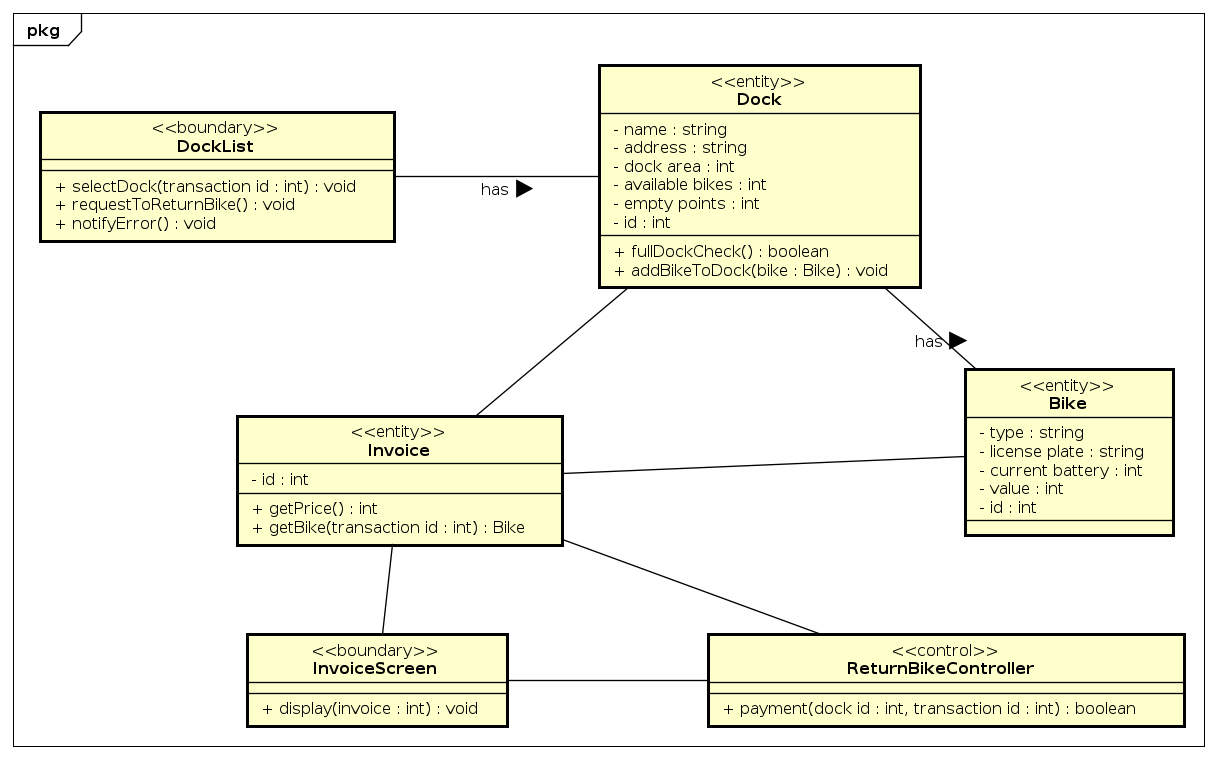
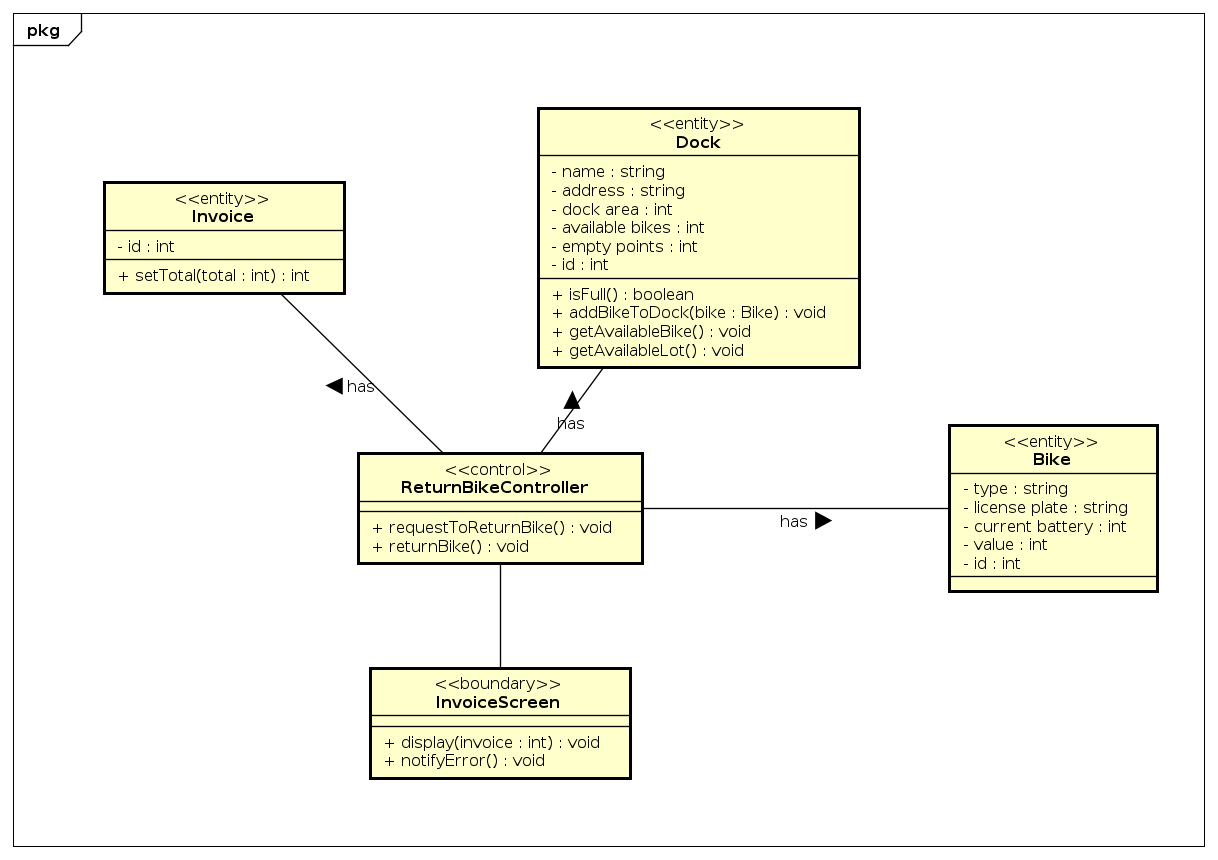
DI pattern, update DetailDesign

diff --git a/EcoBikeRental/src/main/java/edu/hust/vn/controller/ReturnController.java b/EcoBikeRental/src/main/java/edu/hust/vn/controller/ReturnController.java
@@ -1,6 +1,7 @@
 package edu.hust.vn.controller;
 
 
+import edu.hust.vn.contract.IPricing;
 import javafx.animation.KeyFrame;
 import javafx.animation.Timeline;
 import javafx.collections.FXCollections;
@@ -19,6 +20,7 @@ import edu.hust.vn.entity.Rental;
 
 import java.io.IOException;
 import java.net.URL;
+import java.sql.Timestamp;
 import java.util.ResourceBundle;
 
 public class ReturnController extends BaseController implements Initializable {
@@ -50,12 +52,6 @@ public class ReturnController extends BaseController implements Initializable {
 
     @FXML
     private Label typeLb;
-    Timeline timeLine;
-    private int timeCounter = 0;
-    private Bike bike;
-    private Rental rental;
-    private Invoice invoice;
-    private ObservableList<Dock> dockList;
 
     @FXML
     void returnBike(ActionEvent event) throws IOException {
@@ -68,9 +64,11 @@ public class ReturnController extends BaseController implements Initializable {
                 alert.show();
             }else {
                 timeLine.stop();
-                System.out.println(dock.getName());
                 dock.addBikeToDock(this.bike);
-                // payment method
+                rental.setReturnTime(new Timestamp(System.currentTimeMillis()));
+                int time = (int) (rental.getReturnTime().getTime() - rental.getStartTime().getTime()) / 1000;
+                invoice.setTotal( pricing.getPricing(time) );
+                // payment(Invoice invoice)
                 // chuyen man hinh sang thanh toan hoa don kem du lieu bike
             }
         }else{
@@ -79,6 +77,42 @@ public class ReturnController extends BaseController implements Initializable {
         }
     }
 
+    private Timeline timeLine;
+    private Bike bike;
+    private Rental rental;
+    private Invoice invoice;
+    private ObservableList<Dock> dockList;
+    private IPricing pricing;
+    public ReturnController(Bike bike, Rental rental, Invoice invoice, IPricing pricing) {
+        this.bike = bike;
+        this.rental = rental;
+        this.invoice = invoice;
+        this.pricing = pricing;
+        this.timeLine = new Timeline();
+    }
+    @Override
+    public void initialize(URL url, ResourceBundle resourceBundle) {
+        typeLb.setText("Single");
+        licenseStateLb.setText(bike.getLicensePlate());
+        timeLb.setText(String.valueOf(0) + "d:" + String.valueOf((0)) + "h:" + String.valueOf((0)) + "m");
+        totalLb.setText(String.valueOf(invoice.getTotal()));
+        batteryLb.setText(String.valueOf(bike.getBattery()));
+
+        dockList = FXCollections.observableArrayList(
+                new Dock(1, "1 hoang mai ha noi", "So 1", 50),
+                new Dock(2, "2 hoang mai ha noi", "So 2", 50),
+                new Dock(3, "3 hoang mai ha noi", "S0 3", 50)
+        );
+
+        nameCol.setCellValueFactory(new PropertyValueFactory< Dock, String >("name"));
+        availableBikeCol.setCellValueFactory( cellDataFeatures ->  cellDataFeatures.getValue().getAvailableBikeProperty());
+        availableLotsCol.setCellValueFactory(cellDataFeatures ->  cellDataFeatures.getValue().getAvailableLotProperty());
+        totalLotsCol.setCellValueFactory(new PropertyValueFactory< Dock, Number>( "capacity"));
+        addressCol.setCellValueFactory(new PropertyValueFactory< Dock, String >("address"));
+        table.setItems(dockList);
+
+        doTime();
+    }
     public Bike getBike() {
         return bike;
     }
@@ -96,55 +130,16 @@ public class ReturnController extends BaseController implements Initializable {
         KeyFrame frame = new KeyFrame(Duration.seconds(1), new EventHandler<ActionEvent>() {
             @Override
             public void handle(ActionEvent actionEvent) {
-                timeCounter++;
-                int days = timeCounter / 86400;
-                int hours = (timeCounter - days * 86400) / 3600;
-                int minutes = (timeCounter - hours * 3600) % 60;
-                timeLb.setText(String.valueOf(days) + "d:" + String.valueOf((hours)) + "h:" + String.valueOf((minutes)) + "m");
-
-                minutes = timeCounter;
-                if (minutes <= 10){
-                    invoice.setTotal(0);
-                } else if (minutes > 10 && minutes < 40 ) {
-                    invoice.setTotal(10000);
-                }else {
-                    invoice.setTotal(10000 + (minutes - 40) / 15 * 3000 + 3000);
-                }
-                totalLb.setText(String.valueOf(invoice.getTotal()));
+                int time = (int) (System.currentTimeMillis() - rental.getStartTime().getTime()) / 1000;
+                int days = time / 86400;
+                int hours = time % 86400 / 3600;
+                int minutes = time % 86400 % 3600 / 60;
+                int second = time % 86400 % 3600 % 60;
+                timeLb.setText( days + "d:" + hours + "h:" + minutes + "m:" + second + "s");
+                totalLb.setText(String.valueOf( pricing.getPricing( time ) ) );
             }
         });
         timeLine.getKeyFrames().add(frame);
         timeLine.playFromStart();
-    }
-
-    @Override
-    public void initialize(URL url, ResourceBundle resourceBundle) {
-        typeLb.setText("Single");
-        licenseStateLb.setText(bike.getLicensePlate());
-        timeLb.setText(String.valueOf(0) + "d:" + String.valueOf((0)) + "h:" + String.valueOf((0)) + "m");
-        totalLb.setText(String.valueOf(invoice.getTotal()));
-        batteryLb.setText(String.valueOf(bike.getBattery()));
-
-        dockList = FXCollections.observableArrayList(
-            new Dock(1, "1 hoang mai ha noi", "So 1", 50),
-            new Dock(2, "2 hoang mai ha noi", "So 2", 50),
-            new Dock(3, "3 hoang mai ha noi", "S0 3", 50)
-        );
-
-        nameCol.setCellValueFactory(new PropertyValueFactory< Dock, String >("name"));
-        availableBikeCol.setCellValueFactory( cellDataFeatures ->  cellDataFeatures.getValue().getAvailableBikeProperty());
-        availableLotsCol.setCellValueFactory(cellDataFeatures ->  cellDataFeatures.getValue().getAvailableLotProperty());
-        totalLotsCol.setCellValueFactory(new PropertyValueFactory< Dock, Number>( "capacity"));
-        addressCol.setCellValueFactory(new PropertyValueFactory< Dock, String >("address"));
-        table.setItems(dockList);
-
-        doTime();
-    }
-
-    public ReturnController(Bike bike, Rental rental, Invoice invoice) {
-        this.bike = bike;
-        this.rental = rental;
-        this.invoice = invoice;
-        this.timeLine = new Timeline();
     }
 }

diff --git a/EcoBikeRental/src/main/java/edu/hust/vn/Main.java b/EcoBikeRental/src/main/java/edu/hust/vn/Main.java
@@ -5,12 +5,14 @@ import edu.hust.vn.entity.Bike;
 import edu.hust.vn.entity.Invoice;
 import edu.hust.vn.entity.Rental;
 import edu.hust.vn.utils.Configs;
+import edu.hust.vn.utils.Pricing.Pricing24H;
 import javafx.application.Application;
 import javafx.fxml.FXMLLoader;
 import javafx.scene.Parent;
 import javafx.scene.Scene;
 import javafx.stage.Stage;
-import javafx.stage.StageStyle;
+
+import java.sql.Timestamp;
 
 public class Main extends Application {
 
@@ -33,8 +35,9 @@ public class Main extends Application {
             FXMLLoader fxmlLoader = new FXMLLoader(getClass().getResource(Configs.RETURN_SCREEN_PATH));
             ReturnController returnController = new ReturnController(
                     new Bike(1, "18G-12345", 120000),
-                    new Rental(1, 1, 0),
-                    new Invoice(1, 1)
+                    new Rental(1, 1, new Timestamp(System.currentTimeMillis())),
+                    new Invoice(1, 1),
+                    new Pricing24H()
             );
             fxmlLoader.setController(returnController);
             Parent root = fxmlLoader.load();

diff --git a/EcoBikeRental/src/main/java/edu/hust/vn/entity/Rental.java b/EcoBikeRental/src/main/java/edu/hust/vn/entity/Rental.java
@@ -1,12 +1,14 @@
 package edu.hust.vn.entity;
 
+import java.sql.Timestamp;
+
 public class Rental {
     private int id;
     private int bikeId;
-    private int startTime;
-    private int returnTime;
+    private Timestamp startTime;
+    private Timestamp returnTime;
 
-    public Rental(int id, int bikeId, int startTime) {
+    public Rental(int id, int bikeId, Timestamp startTime) {
         this.id = id;
         this.bikeId = bikeId;
         this.startTime = startTime;
@@ -28,19 +30,19 @@ public class Rental {
         this.bikeId = bikeId;
     }
 
-    public int getStartTime() {
+    public Timestamp getStartTime() {
         return startTime;
     }
 
-    public void setStartTime(int startTime) {
+    public void setStartTime(Timestamp startTime) {
         this.startTime = startTime;
     }
 
-    public int getReturnTime() {
+    public Timestamp getReturnTime() {
         return returnTime;
     }
 
-    public void setReturnTime(int returnTime) {
+    public void setReturnTime(Timestamp returnTime) {
         this.returnTime = returnTime;
     }
 }

diff --git a/EcoBikeRental/src/main/java/edu/hust/vn/utils/Pricing/Pricing24H.java b/EcoBikeRental/src/main/java/edu/hust/vn/utils/Pricing/Pricing24H.java
@@ -1,0 +1,20 @@
+package edu.hust.vn.utils.Pricing;
+
+import edu.hust.vn.contract.IPricing;
+
+public class Pricing24H implements IPricing {
+
+    @Override
+    public int getPricing(int time) {
+        int hours = time / 3600;
+        int minutes = time / 60;
+        int total = 200000;
+        if ( hours < 12 ){
+            return total - (12 - hours)*10000;
+        } else if( hours > 24 ) {
+            return total + (minutes - 24*60)/15*2000;
+        }else {
+            return total;
+        }
+    }
+}

diff --git a/EcoBikeRental/src/main/java/edu/hust/vn/utils/Pricing/Pricing.java b/EcoBikeRental/src/main/java/edu/hust/vn/utils/Pricing/Pricing.java
@@ -1,0 +1,18 @@
+package edu.hust.vn.utils.Pricing;
+
+import edu.hust.vn.contract.IPricing;
+
+public class Pricing implements IPricing {
+
+    @Override
+    public int getPricing(int time) {
+        int minutes = time / 60;
+        if (minutes <= 10){
+            return 0;
+        } else if (minutes > 10 && minutes < 40 ) {
+            return 10000;
+        }else {
+            return 10000 + (minutes - 40) / 15 * 3000 + 3000;
+        }
+    }
+}

diff --git a/EcoBikeRental/src/main/java/edu/hust/vn/contract/IPricing.java b/EcoBikeRental/src/main/java/edu/hust/vn/contract/IPricing.java
@@ -1,0 +1,5 @@
+package edu.hust.vn.contract;
+
+public interface IPricing {
+    public abstract int getPricing(int time);
+}
